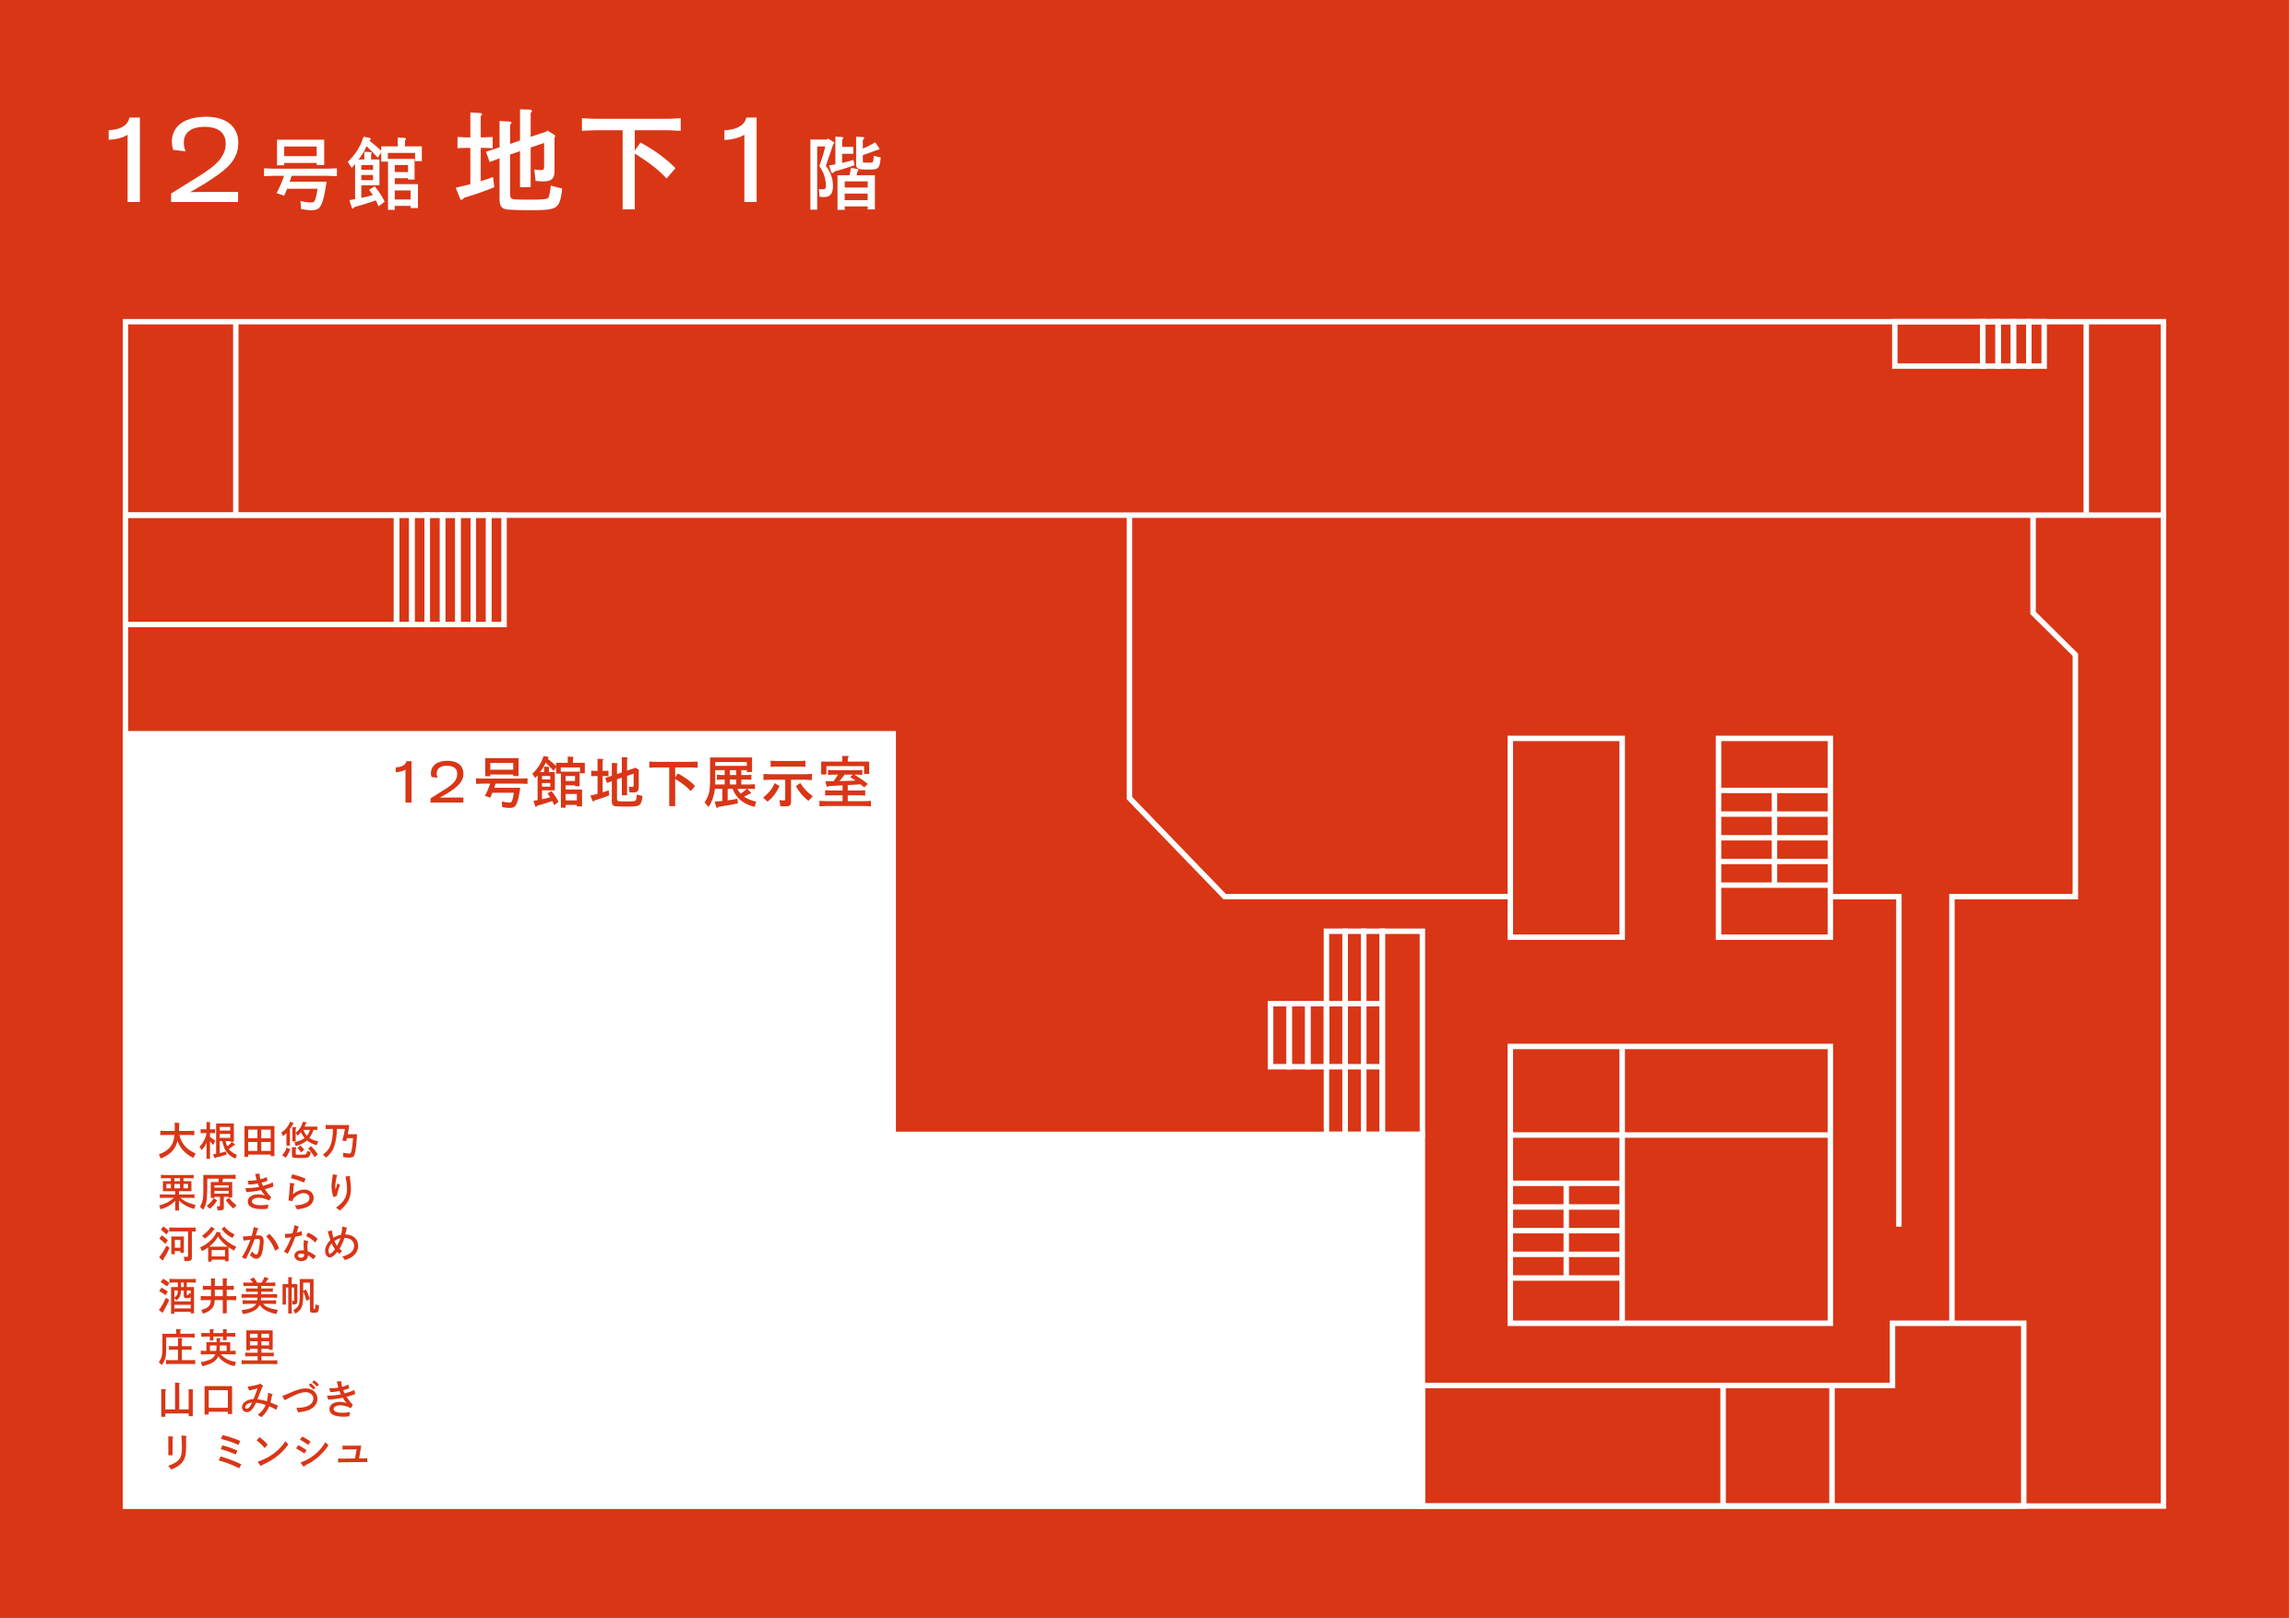
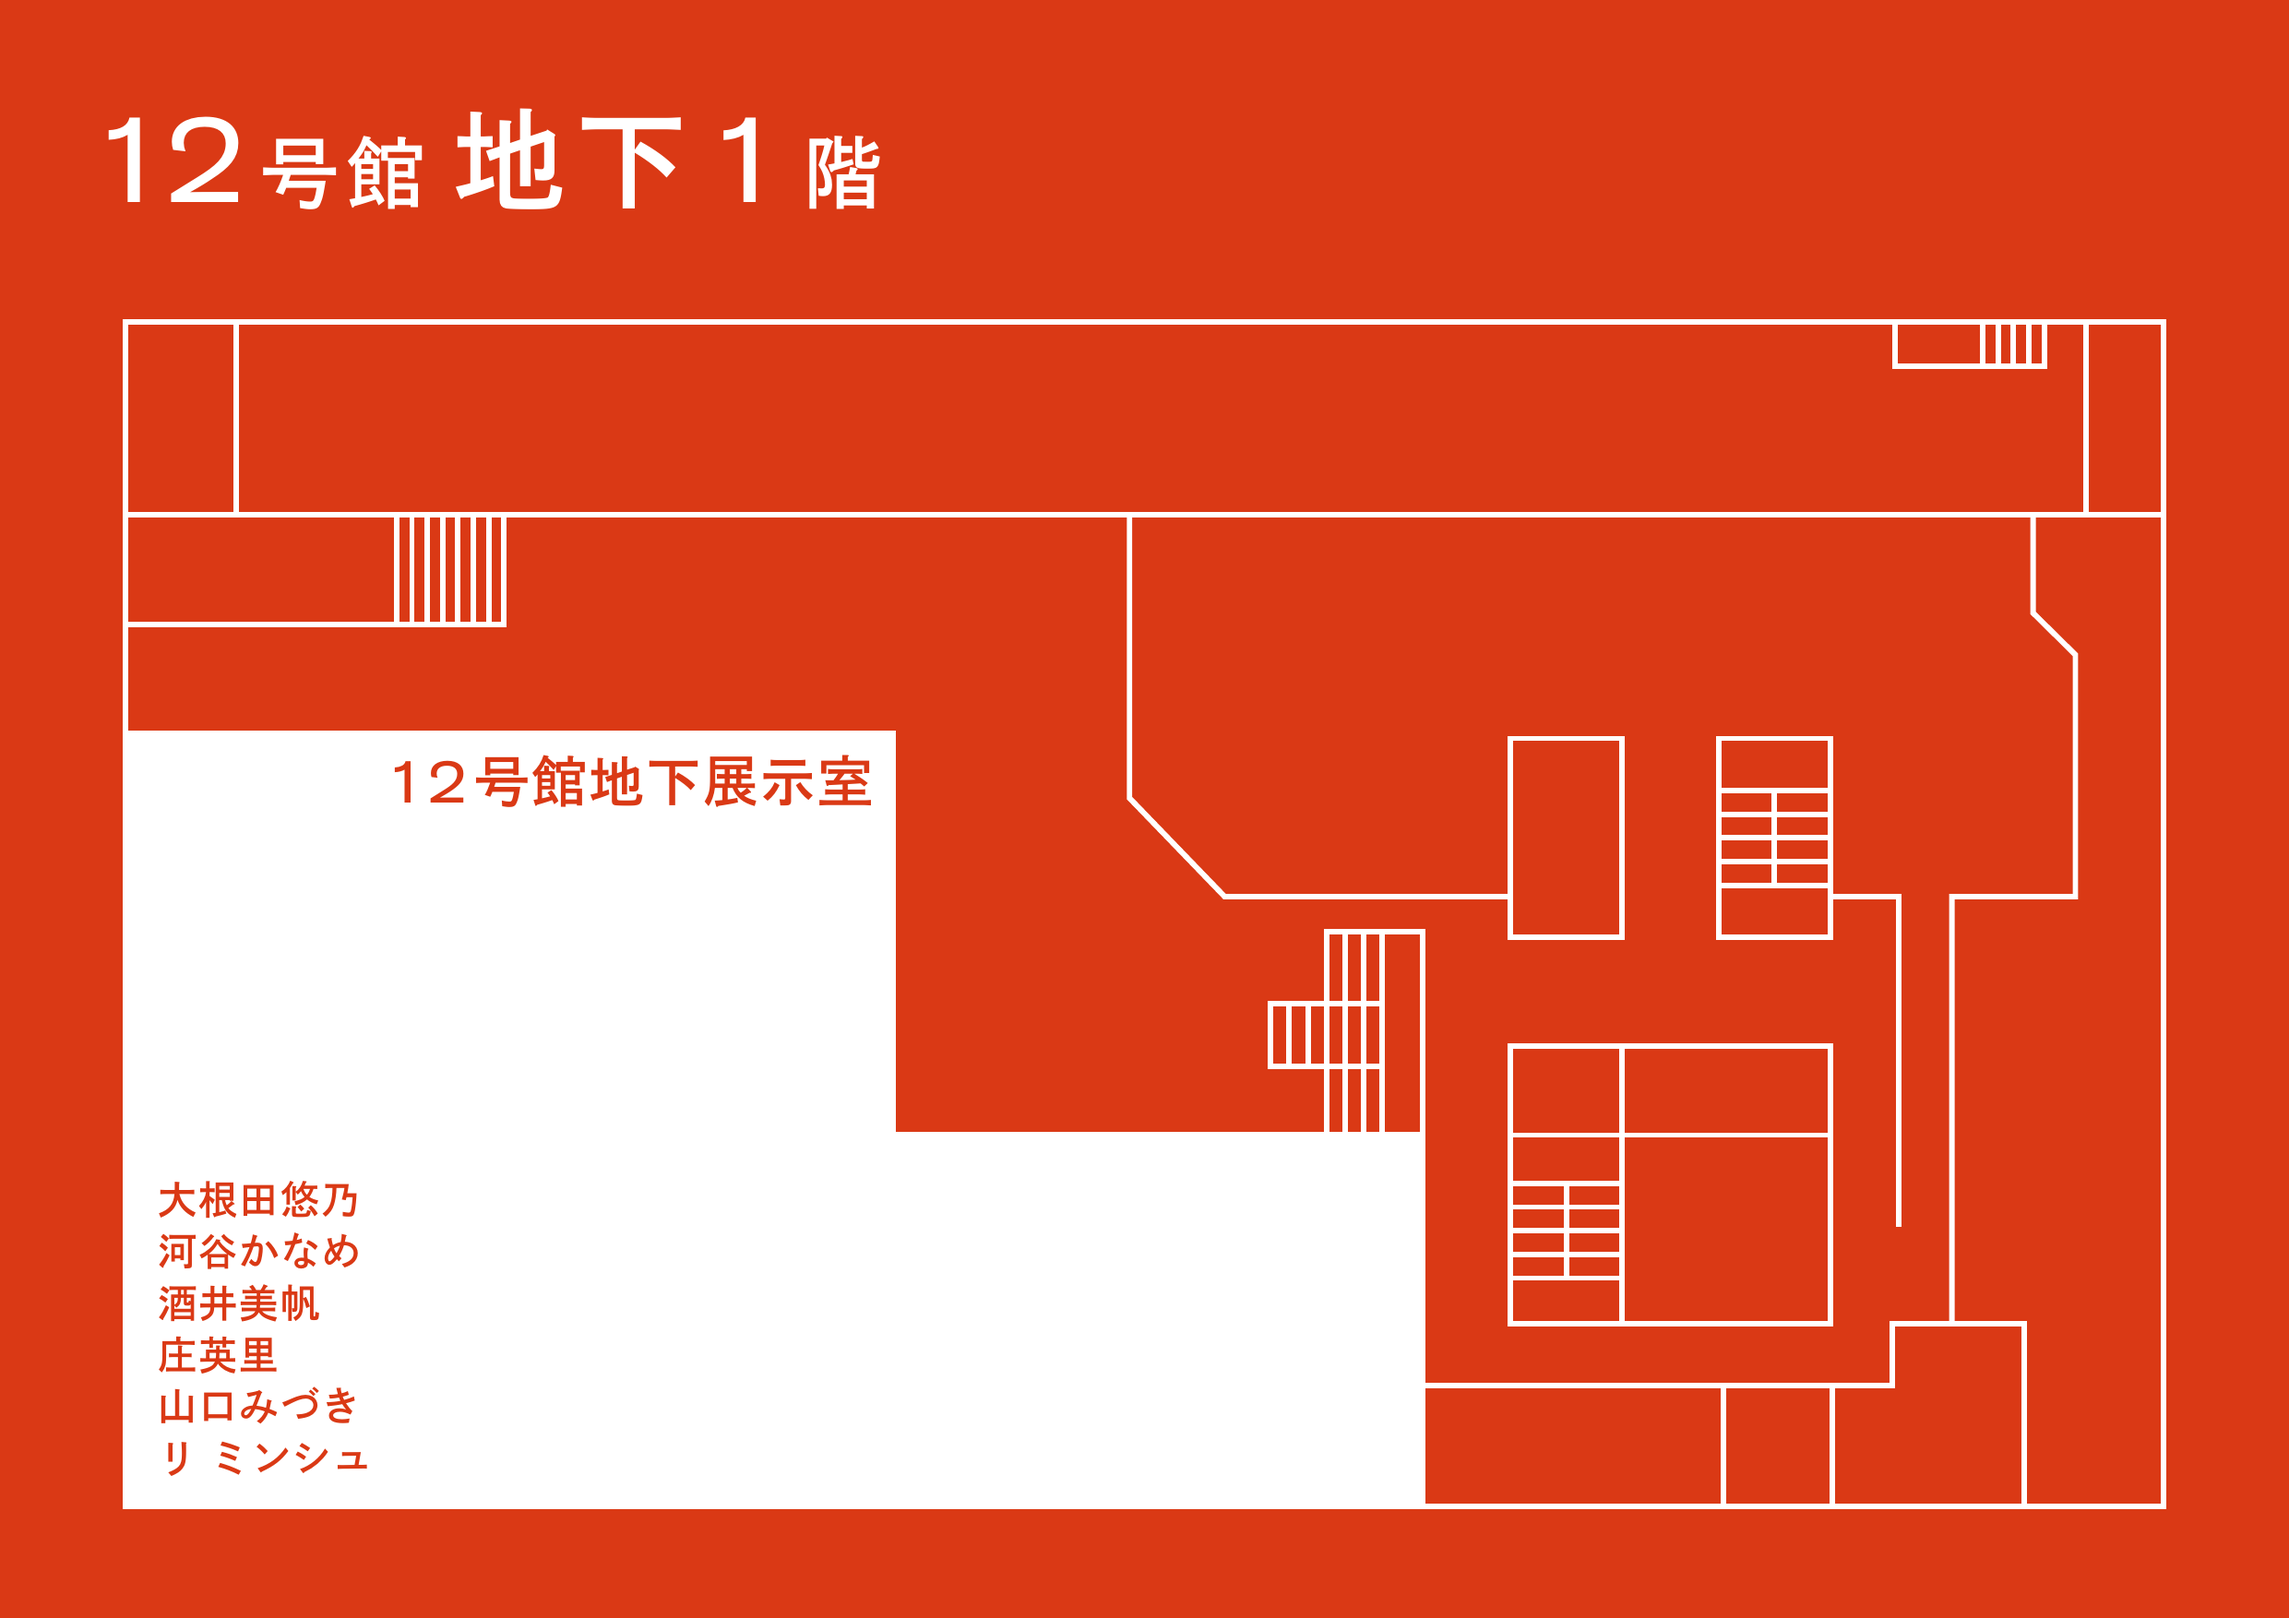
Update floor maps for exhibition location

diff --git a/assets/floor-guide.js b/assets/floor-guide.js
@@ -54,7 +54,7 @@
       map.className = 'floor-guide-map';
       const img = document.createElement('img');
       img.className = 'floor-guide-image';
-      img.src = `assets/img/map/floors/${path}-${direction}.png?v=20261120west2`;
+      img.src = `assets/img/map/floors/${path}-${direction}.png?v=20261124`;
       img.alt = building + (name === '芝生' ? '' : ' ' + name) + 'のフロアマップ';
       map.append(img);
       section.append(map);

diff --git a/index.html b/index.html
@@ -1979,7 +1979,7 @@
     })();
   </script>
 <script src="assets/catalog-carousel.js?v=20261109"></script>
-<script src="assets/floor-guide.js?v=20261120west4"></script>
+<script src="assets/floor-guide.js?v=20261124"></script>
 <script src="assets/latin-baseline.js?v=20261121a" defer></script>
 </body>
 </html>
